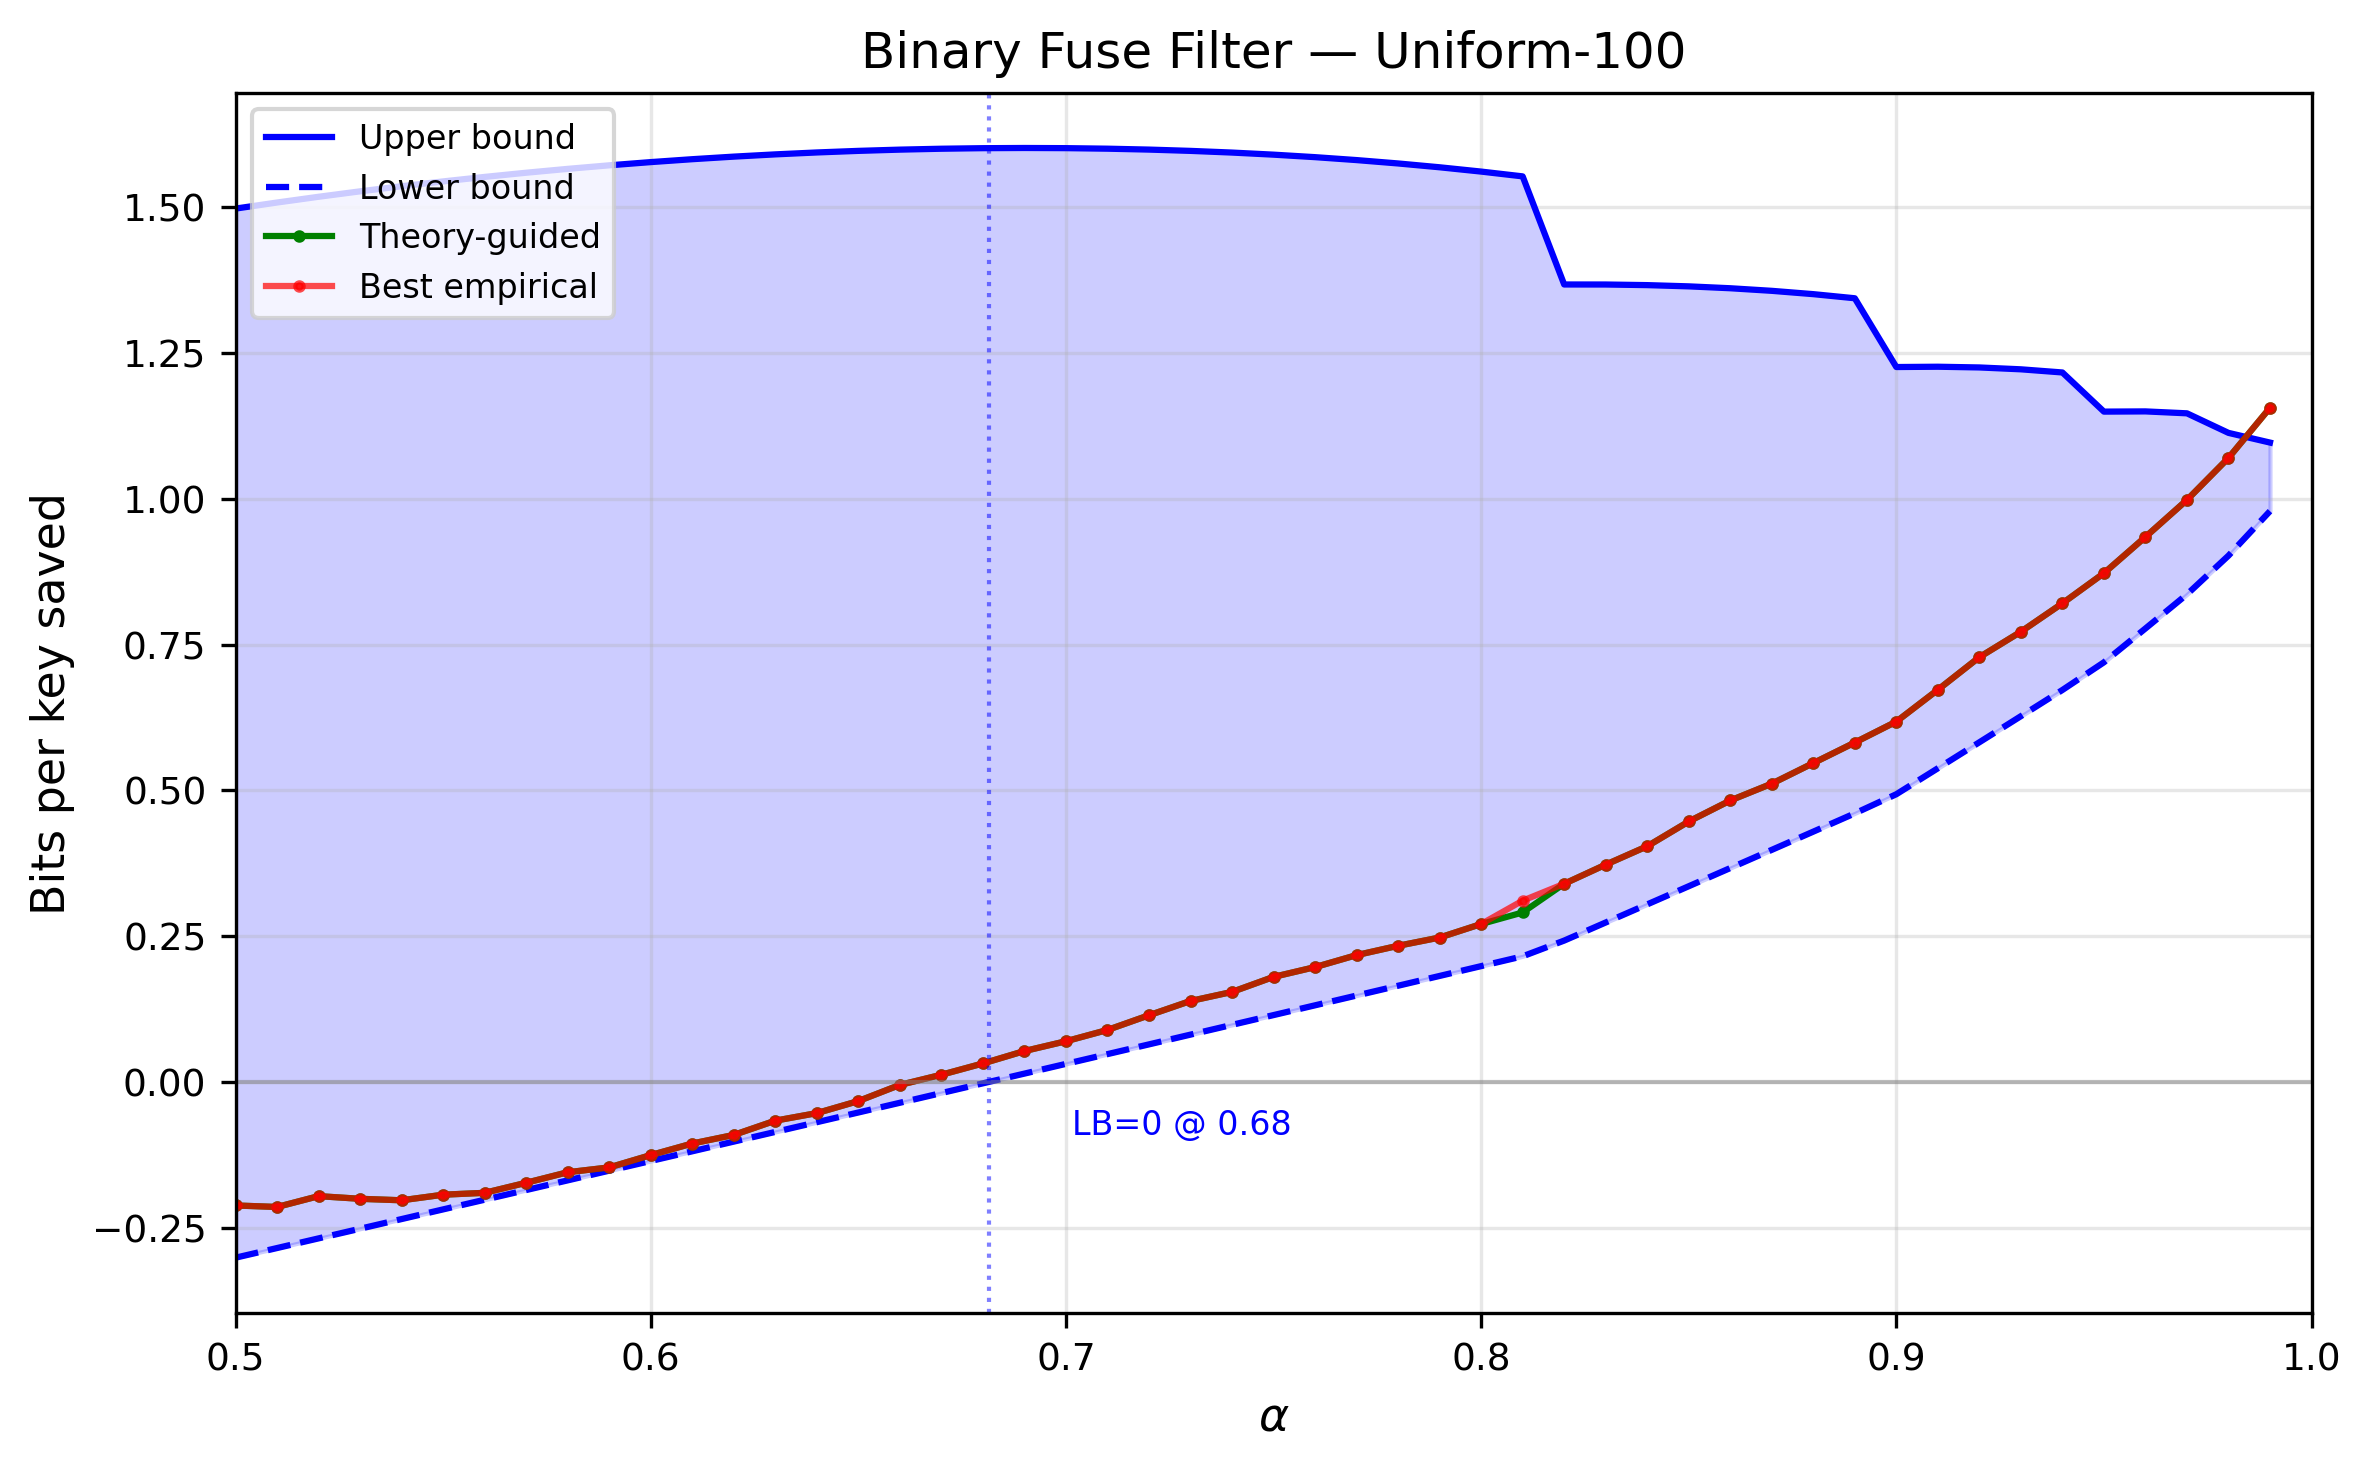
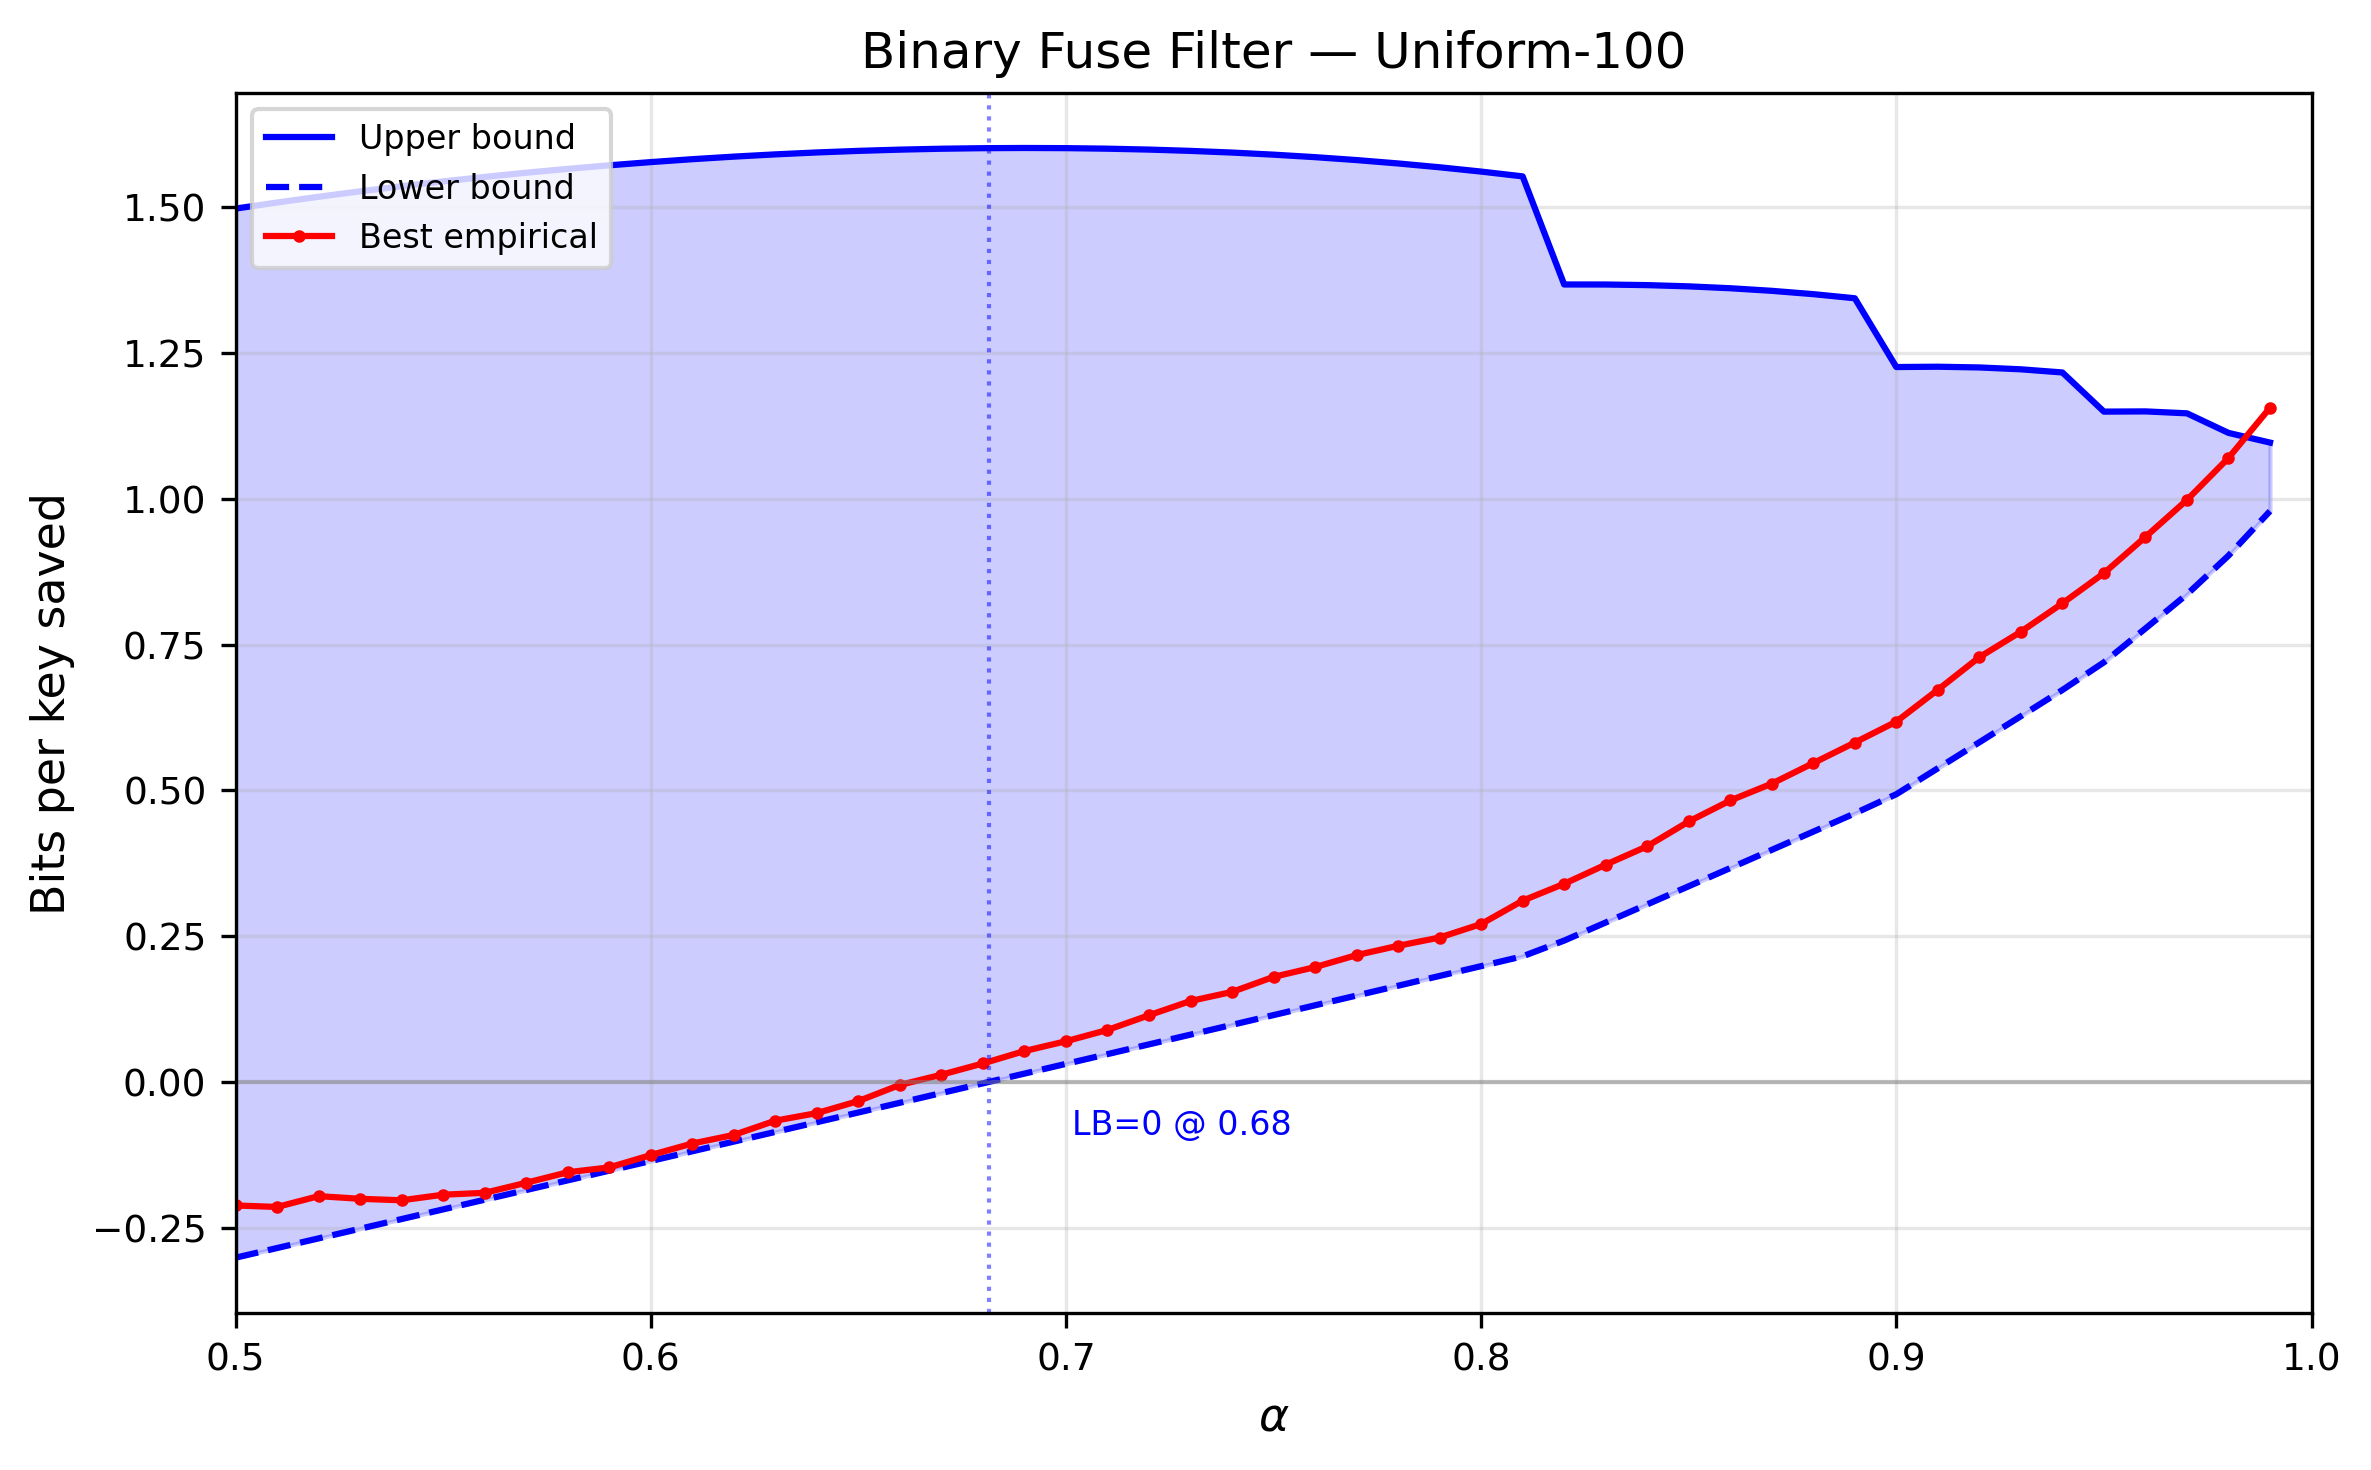
remake plots

diff --git a/baselines/run_baselines.py b/baselines/run_baselines.py
@@ -21,7 +21,6 @@ import json
 import os
 import sys
 import time
-import tracemalloc
 
 import numpy as np
 
@@ -92,23 +91,13 @@ def measure_inference_time(method, structure, keys, seed):
     }
 
 
-def measure_tracemalloc(method, keys, values):
-    tracemalloc.start()
-    snap_before = tracemalloc.take_snapshot()
-    method.construct(keys, values)
-    snap_after = tracemalloc.take_snapshot()
-    tracemalloc.stop()
-    stats = snap_after.compare_to(snap_before, "lineno")
-    return sum(s.size_diff for s in stats if s.size_diff > 0)
-
-
 def _print_result_summary(result):
     inf = result["inference_ns"]
     mem = result["memory"]
-    if "tracemalloc" in mem:
-        memory_desc = f"tracemalloc={mem['tracemalloc']:,}B"
-    elif "serialized" in mem:
+    if "serialized" in mem:
         memory_desc = f"serialized={mem['serialized']:,}B"
+    elif "theoretical" in mem:
+        memory_desc = f"theoretical={mem['theoretical']:,}B"
     else:
         memory_desc = f"serialized={mem.get('serialized_bytes', 0):,}B"
     p99_str = f" (p99={inf['p99']:.0f})" if "p99" in inf else ""
@@ -135,7 +124,6 @@ def run_single_method(method, keys, values, seed):
     memory = method.measure_memory(keys, values)
     if memory is None and hasattr(method, "measure_memory_from_structure"):
         memory = method.measure_memory_from_structure(structure)
-    memory["tracemalloc"] = measure_tracemalloc(method, keys, values)
 
     inference_ns = measure_inference_time(method, structure, keys, seed)
 

diff --git a/theory_validation/make_plots.py b/theory_validation/make_plots.py
@@ -99,7 +99,6 @@ def plot_alpha_sweep(data, filter_label, ax=None):
     alphas = []
     lb_vals = []
     ub_vals = []
-    theory_guided = []
     best_empirical = []
 
     for r in data["results"]:
@@ -113,26 +112,17 @@ def plot_alpha_sweep(data, filter_label, ax=None):
         alphas.append(alpha)
         lb_vals.append(theory.lower_bound(alpha, eps, b_eps, n_over_N))
         ub_vals.append(theory.upper_bound(alpha, eps, b_eps, n_over_N))
-
-        emp_at_theory = next(
-            e["bpk_saved"] for e in r["empirical_per_param"] if e[pk] == best_param
-        )
-        theory_guided.append(emp_at_theory)
         best_empirical.append(r["best_empirical_bpk_saved"])
 
     ax.fill_between(alphas, lb_vals, ub_vals, alpha=0.2, color="blue")
     ax.plot(alphas, ub_vals, "b-", linewidth=1.5, label="Upper bound")
     ax.plot(alphas, lb_vals, "b--", linewidth=1.5, label="Lower bound")
     ax.plot(
-        alphas, theory_guided, "g.-", linewidth=1.5, markersize=4, label="Theory-guided"
-    )
-    ax.plot(
         alphas,
         best_empirical,
         "r.-",
         linewidth=1.5,
         markersize=4,
-        alpha=0.7,
         label="Best empirical",
     )
     ax.axhline(y=0, color="gray", linestyle="-", alpha=0.5, linewidth=1)

diff --git a/baselines/make_plots.py b/baselines/make_plots.py
@@ -61,7 +61,9 @@ def _get_memory_bytes(result):
     mem = result["memory"]
     if "theoretical" in mem:
         return mem["theoretical"]
-    return mem["serialized"]
+    if "serialized" in mem:
+        return mem["serialized"]
+    return mem["serialized_bytes"]
 
 
 def _get_inference_ns(result):

diff --git a/baselines/figures/tables.md b/baselines/figures/tables.md
@@ -10,12 +10,7 @@
 | CSF+Bloom (Shibuya) | 5.52 | 4.79 | 3.74 | 2.73 | 1.52 | 0.84 | 0.24 |
 | Java CSF (Sux4J) | 5.02 | 4.28 | 3.54 | 2.80 | 2.06 | 1.69 | 1.39 |
 | Java MPH Table | 35.00 | 39.63 | 44.38 | 49.01 | 53.64 | 55.95 | 57.80 |
-| LSF BuRR | 7.09 | — | — | 7.09 | — | 7.09 | — |
-| LSF CSF | 4.39 | — | — | 2.58 | — | 0.66 | — |
-| LSF Learned (Huffman) | — | — | — | 2.18 | — | — | — |
-| LSF Learned (Fano) | — | — | — | 2.21 | — | — | — |
-| LSF Learned (Fano50) | — | — | — | 2.21 | — | — | — |
-| LSF Learned (Fano50r) | — | — | — | 2.20 | — | — | — |
+| Learned CSF | — | — | — | 2.18 | — | — | — |
 
 
 ### Memory (bits/key) — binary_fuse [unique]
@@ -27,7 +22,6 @@
 | CSF+Bloom (Shibuya) | 27.32 | 21.82 | 16.31 | 10.95 | 5.45 | 2.74 | 0.56 |
 | Java CSF (Sux4J) | 41.92 | 33.64 | 25.40 | 17.23 | 9.14 | 5.14 | 2.01 |
 | Java MPH Table | 43.89 | 46.67 | 49.45 | 52.22 | 55.00 | 56.40 | 57.88 |
-| LSF CSF | 8.91 | — | — | 4.12 | — | 0.97 | — |
 
 
 ### Memory (bits/key) — binary_fuse [zipfian]
@@ -39,7 +33,6 @@
 | CSF+Bloom (Shibuya) | 4.88 | 4.13 | 3.41 | 2.42 | 1.42 | 0.83 | 0.22 |
 | Java CSF (Sux4J) | 4.99 | 4.33 | 3.65 | 2.93 | 2.20 | 1.79 | 1.40 |
 | Java MPH Table | 35.36 | 40.04 | 44.60 | 49.15 | 53.71 | 55.99 | 57.81 |
-| LSF CSF | 3.36 | — | — | 2.14 | — | — | — |
 
 
 ### Avg Inference Time (ns) — binary_fuse [uniform_100]
@@ -51,24 +44,18 @@
 | CSF+Bloom (Shibuya) | 319 | 296 | 260 | 250 | 330 | 214 | 231 |
 | Java CSF (Sux4J) | 346 | 570 | 542 | 337 | 295 | 326 | 319 |
 | Java MPH Table | 1412 | 1280 | 1322 | 1505 | 1245 | 1551 | 1997 |
-| LSF BuRR | 19 | — | — | 19 | — | 19 | — |
-| LSF CSF | 52 | — | — | 47 | — | 50 | — |
-| LSF Learned (Huffman) | — | — | — | 8331 | — | — | — |
-| LSF Learned (Fano) | — | — | — | 1462 | — | — | — |
-| LSF Learned (Fano50) | — | — | — | 765 | — | — | — |
-| LSF Learned (Fano50r) | — | — | — | 753 | — | — | — |
+| Learned CSF | — | — | — | 8331 | — | — | — |
 
 
 ### Avg Inference Time (ns) — binary_fuse [unique]
 
 | N=100k Method | a=0.5 | a=0.6 | a=0.7 | a=0.8 | a=0.9 | a=0.95 | a=0.99 |
 | --- | --- | --- | --- | --- | --- | --- | --- |
-| C++ Hash Table | 837 | 494 | 592 | 649 | 520 | 736 | 806 |
-| CSF+BinaryFuse (Optimal) | 380 | 365 | 291 | 282 | 207 | 188 | 184 |
-| CSF+Bloom (Shibuya) | 383 | 333 | 300 | 341 | 312 | 236 | 236 |
-| Java CSF (Sux4J) | 568 | 542 | 399 | 377 | 365 | 330 | 358 |
-| Java MPH Table | 1427 | 1443 | 1400 | 1236 | 1383 | 1390 | 1505 |
-| LSF CSF | 121 | — | — | 78 | — | 61 | — |
+| C++ Hash Table | 635 | 517 | 592 | 649 | 520 | 736 | 806 |
+| CSF+BinaryFuse (Optimal) | 372 | 339 | 291 | 282 | 207 | 188 | 184 |
+| CSF+Bloom (Shibuya) | 400 | 354 | 300 | 341 | 312 | 236 | 236 |
+| Java CSF (Sux4J) | 667 | 1320 | 399 | 377 | 365 | 330 | 358 |
+| Java MPH Table | 1363 | 1439 | 1400 | 1236 | 1383 | 1390 | 1505 |
 
 
 ### Avg Inference Time (ns) — binary_fuse [zipfian]
@@ -80,7 +67,6 @@
 | CSF+Bloom (Shibuya) | 283 | 266 | 289 | 247 | 243 | 229 | 222 |
 | Java CSF (Sux4J) | 397 | 357 | 1065 | 355 | 336 | 333 | 321 |
 | Java MPH Table | 1195 | 1371 | 1533 | 1344 | 1250 | 1323 | 1925 |
-| LSF CSF | 69 | — | — | 61 | — | — | — |
 
 
 ### Construction Time (s) — binary_fuse [uniform_100]
@@ -92,24 +78,18 @@
 | CSF+Bloom (Shibuya) | 0.042 | 0.036 | 0.034 | 0.027 | 0.022 | 0.019 | 0.017 |
 | Java CSF (Sux4J) | 0.415 | 0.264 | 0.286 | 0.184 | 0.168 | 0.189 | 0.145 |
 | Java MPH Table | 0.569 | 0.407 | 0.409 | 0.438 | 0.438 | 0.572 | 0.414 |
-| LSF BuRR | 0.009 | — | — | 0.009 | — | 0.009 | — |
-| LSF CSF | 0.069 | — | — | 0.045 | — | 0.019 | — |
-| LSF Learned (Huffman) | — | — | — | 1.686 | — | — | — |
-| LSF Learned (Fano) | — | — | — | 0.322 | — | — | — |
-| LSF Learned (Fano50) | — | — | — | 0.168 | — | — | — |
-| LSF Learned (Fano50r) | — | — | — | 0.168 | — | — | — |
+| Learned CSF | — | — | — | 1.686 | — | — | — |
 
 
 ### Construction Time (s) — binary_fuse [unique]
 
 | N=100k Method | a=0.5 | a=0.6 | a=0.7 | a=0.8 | a=0.9 | a=0.95 | a=0.99 |
 | --- | --- | --- | --- | --- | --- | --- | --- |
-| C++ Hash Table | 0.013 | 0.012 | 0.012 | 0.013 | 0.013 | 0.013 | 0.013 |
-| CSF+BinaryFuse (Optimal) | 0.088 | 0.072 | 0.076 | 0.047 | 0.035 | 0.025 | 0.018 |
-| CSF+Bloom (Shibuya) | 0.091 | 0.065 | 0.078 | 0.051 | 0.038 | 0.026 | 0.020 |
-| Java CSF (Sux4J) | 0.673 | 0.559 | 0.619 | 0.339 | 0.238 | 0.198 | 0.190 |
-| Java MPH Table | 0.495 | 0.532 | 0.539 | 0.487 | 0.485 | 0.472 | 0.627 |
-| LSF CSF | 0.149 | — | — | 0.074 | — | 0.026 | — |
+| C++ Hash Table | 0.012 | 0.014 | 0.012 | 0.013 | 0.013 | 0.013 | 0.013 |
+| CSF+BinaryFuse (Optimal) | 0.081 | 0.080 | 0.076 | 0.047 | 0.035 | 0.025 | 0.018 |
+| CSF+Bloom (Shibuya) | 0.084 | 0.070 | 0.078 | 0.051 | 0.038 | 0.026 | 0.020 |
+| Java CSF (Sux4J) | 0.559 | 0.518 | 0.619 | 0.339 | 0.238 | 0.198 | 0.190 |
+| Java MPH Table | 0.496 | 0.527 | 0.539 | 0.487 | 0.485 | 0.472 | 0.627 |
 
 
 ### Construction Time (s) — binary_fuse [zipfian]
@@ -121,4 +101,3 @@
 | CSF+Bloom (Shibuya) | 0.035 | 0.052 | 0.035 | 0.027 | 0.018 | 0.019 | 0.016 |
 | Java CSF (Sux4J) | 0.291 | 0.268 | 0.238 | 0.185 | 0.172 | 0.169 | 0.160 |
 | Java MPH Table | 0.569 | 0.515 | 0.552 | 0.490 | 0.428 | 0.470 | 0.419 |
-| LSF CSF | 0.048 | — | — | 0.045 | — | — | — |
